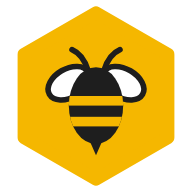
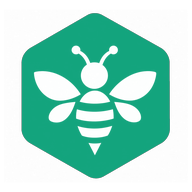
Usa o novo ícone da abelha no hexágono verde
Claude-Session: https://claude.ai/code/session_01QJkaRtExXiFC3cetpy8Gw3

diff --git a/frontend/vite.config.ts b/frontend/vite.config.ts
@@ -35,7 +35,7 @@ export default defineConfig(({ mode }) => {
       react(),
       VitePWA({
         registerType: 'autoUpdate',
-        includeAssets: ['favicon.svg', 'apple-touch-icon.png'],
+        includeAssets: ['favicon.png', 'apple-touch-icon.png'],
         manifest: {
           name: 'Portal de Serviços',
           short_name: 'Serviços',
@@ -46,7 +46,7 @@ export default defineConfig(({ mode }) => {
           // Relativos: funcionam na raiz e na subpasta do Pages
           start_url: './',
           scope: './',
-          // Abelha do ZumZum. A maskable tem fundo cheio e margem para o recorte do Android.
+          // Abelha do ZumZum no hexágono verde. A maskable tem fundo cheio e margem para o recorte do Android.
           icons: [
             { src: 'pwa-192.png', sizes: '192x192', type: 'image/png', purpose: 'any' },
             { src: 'pwa-512.png', sizes: '512x512', type: 'image/png', purpose: 'any' },

diff --git a/frontend/index.html b/frontend/index.html
@@ -8,7 +8,7 @@
       http-equiv="Content-Security-Policy"
       content="default-src 'self'; base-uri 'self'; object-src 'none'; form-action 'self'; script-src 'self'; style-src 'self' 'unsafe-inline'; img-src 'self' data: blob: https://*.supabase.co; font-src 'self' data:; connect-src 'self' https://viacep.com.br https://*.supabase.co wss://*.supabase.co ws://localhost:* ws://127.0.0.1:*; worker-src 'self' blob:; manifest-src 'self'"
     />
-    <link rel="icon" type="image/svg+xml" href="/favicon.svg" />
+    <link rel="icon" type="image/png" href="/favicon.png" />
     <link rel="apple-touch-icon" href="/apple-touch-icon.png" />
     <meta name="viewport" content="width=device-width, initial-scale=1.0" />
     <title>Portal de Serviços</title>
